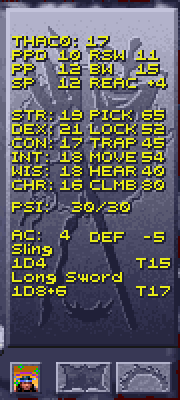
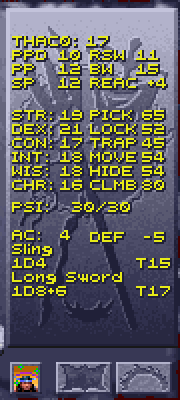
Thief skills: hide in shadows on the inventory screen, in hear noise's place
The panel has room for six. Hide in shadows is now rolled (the stealth rule),
hear noise by one script check in the game, so the inventory screen shows
HIDE instead of HEAR. The Ledger's Characters tab and table show both (and the
table's label names move silently too). Inventory screenshot retaken.

Claude-Session: https://claude.ai/code/session_01BNiWkhyZSJPYsN3zRrweVp

Changed region(s): [[0.5556, 0.39, 0.9167, 0.45]]

diff --git a/darksun-companion/dscompanion/viewer.py b/darksun-companion/dscompanion/viewer.py
@@ -872,9 +872,10 @@ class Viewer:
             cells = []
             for s in slots:
                 addr = s[1].get("creature")
-                skills = gd.thief_skills_now((addr - table) // game.CREATURE_SIZE) if addr is not None else []
+                skills = gd.thief_skills_now((addr - table) // game.CREATURE_SIZE, game.LEDGER_SKILLS) \
+                    if addr is not None else []
                 cells.append(" ".join(f"{n}" for _, n in skills))
-            rows.append(("Thief skills PP/OL/FT/HN/CW", cells))
+            rows.append(("Thief skills PP/OL/FT/MS/HS/HN/CW", cells))
             worn = []
             for s in slots:
                 addr = s[1].get("creature")
@@ -935,7 +936,7 @@ class Viewer:
                     status += (", " if status else "") + ", ".join(names)
                 ac = self.dice.last_ac.get(index) if self.dice and self.dice.attached else None
             known = gd and addr is not None and table is not None
-            thief = gd.thief_skills_now(index) if known else []
+            thief = gd.thief_skills_now(index, game.LEDGER_SKILLS) if known else []
             equipment = gd.equipment(index) if known else []
             try:
                 hits = gd.weapon_hits(index) if known and index < game.PARTY_SIZE else []

diff --git a/darksun-companion/dscompanion/game.py b/darksun-companion/dscompanion/game.py
@@ -447,6 +447,11 @@ THIEF_SKILLS = ("pick pockets", "open locks", "find/remove traps", "move silentl
 # the ones shown: those the game ever rolls (no script asks for the other three), and move
 # silently, which the Templar's Ledger rolls when a pocket isn't picked (pickpocket.py)
 ROLLED_SKILLS = (0, 1, 2, 3, 5, 6)
+# the ones the game's inventory screen shows (DSCLOG's STATS): hide in shadows, which the Ledger's
+# stealth rule rolls, in hear noise's place (one script check in the game, and no room for both)
+PANEL_SKILLS = (0, 1, 2, 3, 4, 6)
+# ... and the ones the Ledger's own screens show (room for all that are ever rolled)
+LEDGER_SKILLS = (0, 1, 2, 3, 4, 5, 6)
 THIEF = 17  # class number
 # Tables (a byte per skill): base; then 8 per race (race 1 first); DEX below which each point
 # costs 5, above which each gives 5, above which each costs 3 again; the armour penalty

diff --git a/darksun-companion/tests/test_now.py b/darksun-companion/tests/test_now.py
@@ -133,6 +133,12 @@ class ThiefTests(unittest.TestCase):
         self.log.guest.mem[ITEMS + 6 * game.ITEM_SIZE + game.ITEM_SLOT] = 0xFF
         self.assertEqual(self.now(), [16, 39, 16, 16, 16, 16])
 
+    def test_panel_shows_hiding(self):
+        """The inventory screen's six (DSCLOG's STATS): hide in shadows in hear noise's place."""
+        self.log.guest.mem[(LOAD_SEG + game.THIEF_TABLE_SEG) * 16 + game.THIEF_BASE + 4] = 7  # hide 7 + 16
+        entry = self.log.stats_entry(0)
+        self.assertEqual(list(entry[17:24]), [1, 11, 39, 16, 16, 23, 6])
+
     def test_effects(self):
         set_effects(self.log, [(0, 0, 47)])  # Slowed: all but picking pockets
         self.assertEqual(self.now(), [11, 0, 0, 0, 0, 0])

diff --git a/darksun-companion/dscompanion/dicelog.py b/darksun-companion/dscompanion/dicelog.py
@@ -688,7 +688,7 @@ class DiceLog:
         out = struct.pack("<Bb5Bx", 1, clamp(hits[0].thac0), *(s.needs for s in saves))
         out += struct.pack("<3H", *([h.item for h in weapons] + [game.NO_ITEM] * (3 - len(weapons))))
         out += struct.pack("<3b", *([clamp(h.thac0) for h in weapons] + [0] * (3 - len(weapons))))
-        thief = g.thief_skills_now(member)
+        thief = g.thief_skills_now(member, game.PANEL_SKILLS)
         out += struct.pack("<B6B", 1, *(n for _, n in thief)) if len(thief) == 6 else bytes(7)
         return out.ljust(STATS_SIZE, b"\0")
 

diff --git a/darksun-companion/README.md b/darksun-companion/README.md
@@ -31,7 +31,7 @@ records; this ledger keeps the ones the game doesn't show you. What it does:
   you picked, kept in a tab you can scroll back through.
 - **In the game itself**, in the game's own lettering: the inventory screen
   also shows each character's THAC0 (for each weapon too), saving throws and
-  (for thieves) the thief skills the game rolls, all as they stand now, and the
+  (for thieves) their thief skills, all as they stand now, and the
   View Character screen their THAC0 and saves
   (see [In the game](#in-the-game-thac0-saves-and-thief-skills)); the USE
   screen shows their spell slots left (see
@@ -956,10 +956,13 @@ right-hand panel, drawn by the game's text routine so they look like the rest:
 - at the right of each weapon's damage line, the THAC0 with that weapon
   (`T14`);
 - right of the abilities, level with STR to CHA, for a character with thief
-  levels, the five **thief skills** the game ever rolls and move silently:
-  `PICK` pockets, open `LOCK`s, find/remove `TRAP`s, `MOVE` silently, `HEAR`
-  noise, `CLMB` walls (hide in shadows and read languages are never checked;
-  see Where the game rolls them). Not below the weapons: three weapons fill the panel down to its
+  levels, six **thief skills**: `PICK` pockets, open `LOCK`s, find/remove
+  `TRAP`s, `MOVE` silently, `HIDE` in shadows and `CLMB` walls. Move silently
+  and hide in shadows are the ones the Ledger rolls (for
+  [picking pockets](#picking-pockets) and the [stealth rule](#rule-changes)).
+  Hear noise, which one script check in the game rolls, is left out for want
+  of room (the Characters tab shows it), as is read languages, which nothing
+  checks (see Where the game rolls them). Not below the weapons: three weapons fill the panel down to its
   buttons;
 - right of SP in the saves (where RSW and BW sit on the rows above), the DEX
   **reaction adjustment** (`REAC +4`): -6 at DEX 1 to +5 at DEX 24-25, the

diff --git a/README.md b/README.md
@@ -81,6 +81,8 @@ launcher runs a patched copy of the game that it keeps in its own folder.
   the game's "Rest icon" label is back.
 
 **Changed**
+- **The inventory screen shows hide in shadows** in hear noise's place (which
+  one script check uses); the Ledger's own screens show both.
 - **Turn pop-ups in the game are off by default**, and have three levels: at the
   least (only what came of each attack and spell, no dice), in short, or in
   detail.
